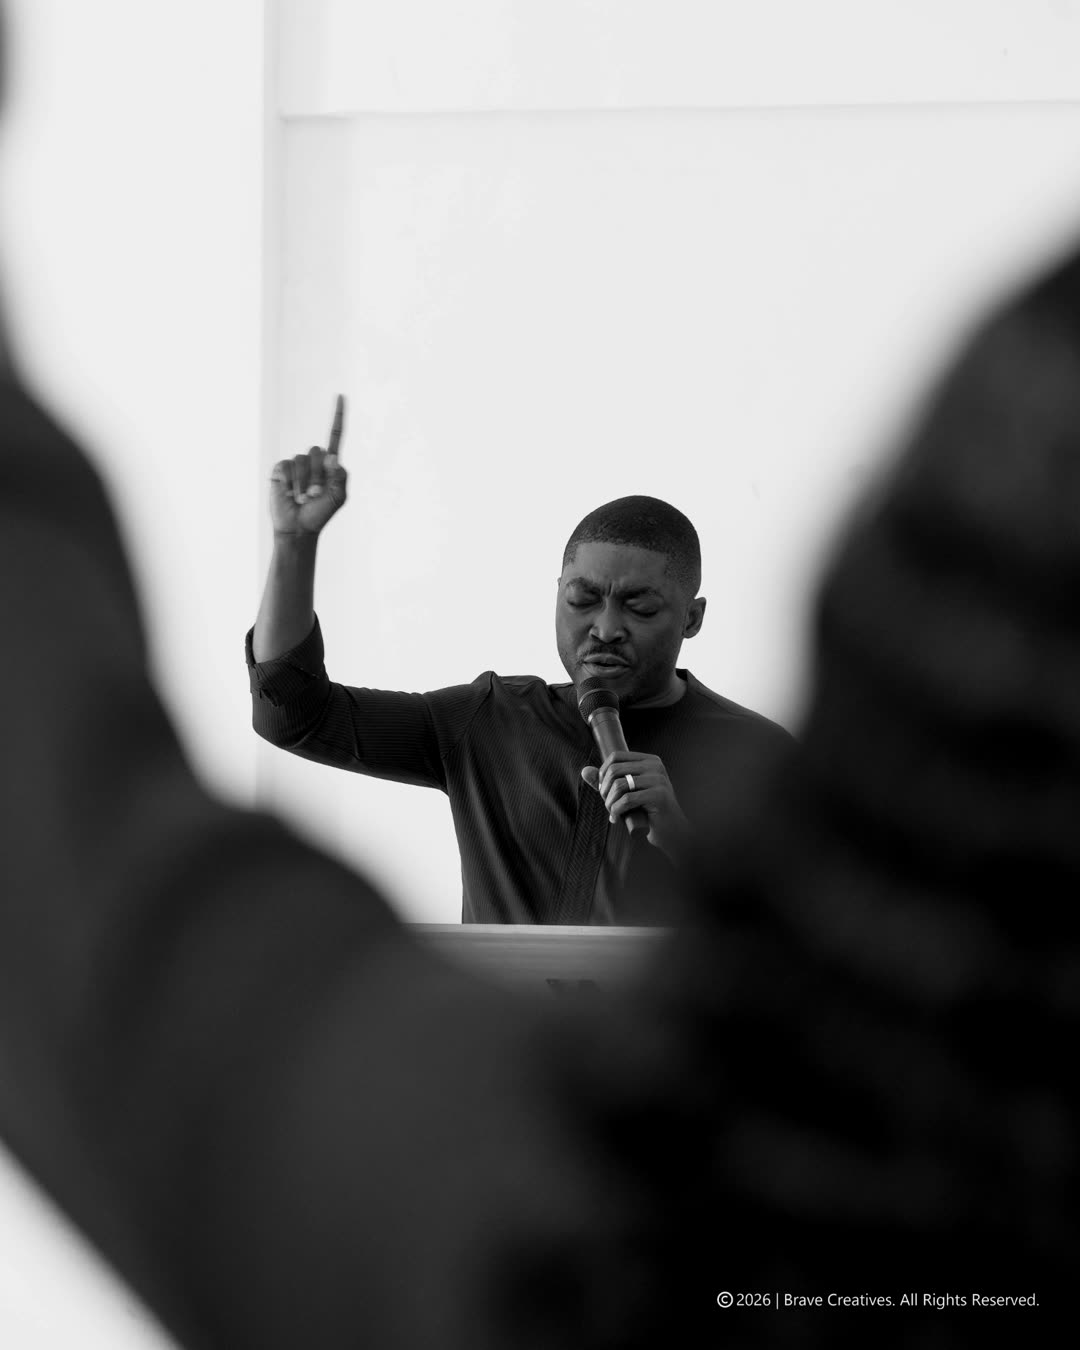
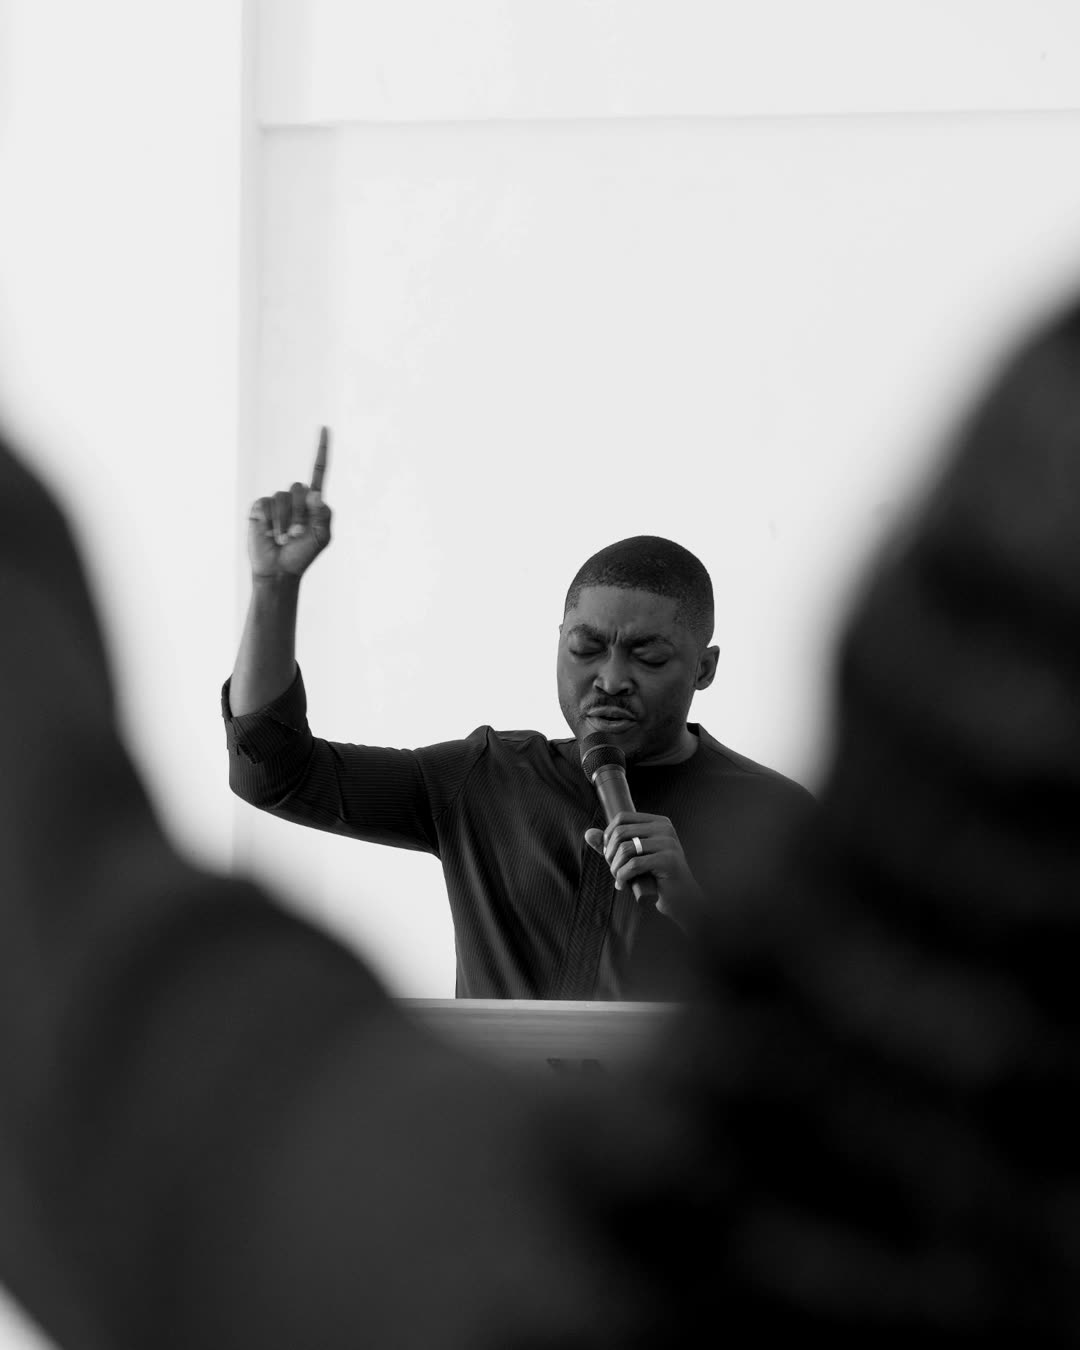
Prayer Room: loop door video -> praying photo cycle; crop photographer credit out of photo

diff --git a/index.html b/index.html
@@ -6410,23 +6410,42 @@ I also experienced God&rsquo;s intervention when I suddenly became weak with sev
 </script>
 
 <script>
-  // Prayer Room video: plays ONCE (the door opening) when it scrolls into view, then fades into a still
-  // photo of someone praying, instead of looping. The button pauses/resumes while playing and replays
-  // from the start once it has finished. Visitors who prefer reduced motion just get the still photo.
+  // Prayer Room video cycle: the door opens (video plays once), the photo of a man praying fades in and
+  // holds, then it fades back out and the whole thing starts again from the beginning. It starts when
+  // scrolled into view; the button pauses/resumes the cycle. Visitors who prefer reduced motion just
+  // get the still photo.
+  // EDITABLE: HOLD_MS is how long the praying photo stays up before the cycle restarts.
   (function(){
+    var HOLD_MS = 6000;
+    var FADE_MS = 1600;   // keep in step with the .photo-after transition in the CSS
     var v = document.getElementById('prayer-room-video');
     var btn = document.getElementById('prayer-room-pause-btn');
-    var box = document.getElementById('prayer-room-after') && document.getElementById('prayer-room-after').parentNode;
+    var after = document.getElementById('prayer-room-after');
+    var box = after && after.parentNode;
     if(!v || !btn || !box) return;
+
+    var timer = null;
+    var running = false;
     var started = false;
 
-    function setPressed(pressed, label){
-      btn.setAttribute('aria-pressed', pressed ? 'true' : 'false');
-      btn.setAttribute('aria-label', label);
+    function setPressed(paused){
+      btn.setAttribute('aria-pressed', paused ? 'true' : 'false');
+      btn.setAttribute('aria-label', paused ? 'Play the Prayer Room video' : 'Pause the Prayer Room video');
     }
-    function play(){
+    function clearTimer(){ if(timer){ clearTimeout(timer); timer = null; } }
+    function playVideo(){
       var p = v.play();
       if(p && p.catch) p.catch(function(){});
+    }
+    function startCycle(){
+      clearTimer();
+      running = true;
+      setPressed(false);
+      box.classList.remove('show-after');
+      timer = setTimeout(function(){
+        v.currentTime = 0;
+        playVideo();
+      }, v.ended || v.currentTime > 0 ? FADE_MS : 0);
     }
 
     if(window.matchMedia && window.matchMedia('(prefers-reduced-motion: reduce)').matches){
@@ -6435,26 +6454,36 @@ I also experienced God&rsquo;s intervention when I suddenly became weak with sev
       return;
     }
 
-    v.addEventListener('play', function(){ setPressed(false, 'Pause the Prayer Room video'); });
-    v.addEventListener('pause', function(){ if(!v.ended) setPressed(true, 'Play the Prayer Room video'); });
+    // Video finished (door open): bring in the photo, hold, then go round again.
     v.addEventListener('ended', function(){
+      if(!running) return;
       box.classList.add('show-after');
-      setPressed(true, 'Replay the Prayer Room video');
+      clearTimer();
+      timer = setTimeout(startCycle, HOLD_MS);
     });
 
     btn.addEventListener('click', function(){
-      if(v.ended){
-        box.classList.remove('show-after');
-        v.currentTime = 0;
-        play();
-      } else if(v.paused){
-        play();
-      } else {
+      if(running){
+        running = false;
+        clearTimer();
         v.pause();
+        setPressed(true);
+      } else if(v.ended || box.classList.contains('show-after')){
+        startCycle();
+      } else {
+        running = true;
+        setPressed(false);
+        playVideo();
       }
     });
 
-    function start(){ if(started) return; started = true; play(); }
+    function start(){
+      if(started) return;
+      started = true;
+      running = true;
+      setPressed(false);
+      playVideo();
+    }
     if('IntersectionObserver' in window){
       var io = new IntersectionObserver(function(entries){
         entries.forEach(function(en){
